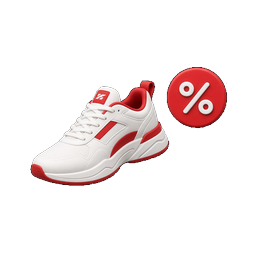
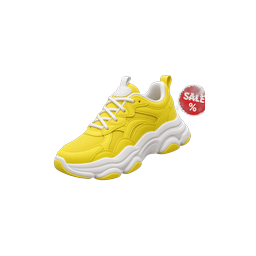
Well Sneakers: v3 chip stickers with cache bust
Replace collection chips with dehalo RGBA assets (~20% padding, true alpha) and point catalog.html img src at ?v=3. Keep 40px contain thumbs.

Changed region(s): [[0.0938, 0.25, 0.9062, 0.75]]

diff --git a/wellsneakers-shop/web/catalog.html b/wellsneakers-shop/web/catalog.html
@@ -65,25 +65,25 @@
           <div class="collection-chips" id="collectionRow" role="group" aria-label="Подборки">
             <button type="button" class="collection-chip" data-color="white" aria-pressed="false">
               <span class="collection-chip-thumb" aria-hidden="true">
-                <img src="assets/chips/chip-white-256.png" alt="" width="40" height="40" />
+                <img src="assets/chips/chip-white-256.png?v=3" alt="" width="40" height="40" />
               </span>
               <span class="collection-chip-label">Белые</span>
             </button>
             <button type="button" class="collection-chip" data-color="bright" aria-pressed="false">
               <span class="collection-chip-thumb" aria-hidden="true">
-                <img src="assets/chips/chip-bright-256.png" alt="" width="40" height="40" />
+                <img src="assets/chips/chip-bright-256.png?v=3" alt="" width="40" height="40" />
               </span>
               <span class="collection-chip-label">Яркие</span>
             </button>
             <button type="button" class="collection-chip" data-color="black" aria-pressed="false">
               <span class="collection-chip-thumb" aria-hidden="true">
-                <img src="assets/chips/chip-strict-256.png" alt="" width="40" height="40" />
+                <img src="assets/chips/chip-strict-256.png?v=3" alt="" width="40" height="40" />
               </span>
               <span class="collection-chip-label">Строгие</span>
             </button>
             <button type="button" class="collection-chip collection-chip-sale" id="saleChip" data-collection="sale" aria-pressed="false">
               <span class="collection-chip-thumb" aria-hidden="true">
-                <img src="assets/chips/chip-sale-256.png" alt="" width="40" height="40" />
+                <img src="assets/chips/chip-sale-256.png?v=3" alt="" width="40" height="40" />
               </span>
               <span class="collection-chip-label">Скидки</span>
             </button>

diff --git a/wellsneakers-shop/TZ.md b/wellsneakers-shop/TZ.md
@@ -151,7 +151,7 @@ MODEL NAME (жирный)
 - [x] Каталог сайта: импорт OC (~398) → на витрине все с наличием (~310; нулевые скрыты)
 - [~] Главная: плюшки **выше** `#him`/`#her`, индикатор **стрелка** (не плюс); без фейкового «белые −15%»; hero `assets/store.jpg` как есть (**960×1280**, ~296KB; attrs не 1734×1971; без full-bleed апскейла, полный кадр позже). Верхней строки чипов Ему/Ей/Скидки **нет** (ни sticky, ни под hero). Плитки `#him`/`#her` ниже плюшек остаются. Телефон витрины **+375 25 685-17-57** / `tel:+375256851757`. «Скидки» в hero → `catalog.html?sale=1`. Favicon прозрачный. **нужен pull `web/` на VPS**
 - [~] Каталог: чипы **Мужское / Женское** в одном стеке с подборками (сразу после Белые/Яркие/Строгие/Скидки, **выше** брендов и размеров); компактные pills `.street-opt`. Фильтры и шапка **не sticky** — при скролле каталога уезжают вверх. Док внизу компактный (~51px). При `scrollY` > ~240px док → 3 колонки `[Главная] [↑ Наверх] [Позвонить]` (smooth scroll наверх) + справа FAB ☰ над доком → `#filtersStack` / `#collectionRow`. У верха ↑ и ☰ скрыты. `?gender=men` / `women` (home tiles уже так ведут). API `GET /api/catalog?gender=` режет по `products.gender` (`men`/`women`/`unisex`/null). Infer только из явных токенов/категории OC, иначе null. Пусто → «Нет моделей». Кнопки «Как заказать» нет. **нужен redeploy API** + pull `web/`
-- [~] Каталог подборки: компактные чипы как плюшки `.perk` — 3D-стикеры `assets/chips/chip-*-256.png` (паддинг, прозрачные углы, полный кадр кроссовка; thumb **40×40**, `object-fit:contain`, `padding:3px`, `background:transparent`, без белой студийной пластины) + **Белые / Яркие / Строгие / Скидки**, **выше** брендов и размеров. Не большие фото-плитки. URL `?color=white` / `bright` / `black`, `?sale=1`. H3 «Каталог» без подписи/api-banner. API `GET /api/catalog?color=` + клиентский fallback (white / vivid RED-PINK-YELLOW-GREEN-BLUE-ORANGE… / black). Пусто → «Нет белых/ярких/строгих моделей» / «Сейчас скидок нет». Стикеры синхронизированы с VPS-хотфиксом; `?color=bright` на API — после redeploy
+- [~] Каталог подборки: компактные чипы как плюшки `.perk` — 3D-стикеры v3 `assets/chips/chip-*-256.png?v=3` (true alpha, ~20% паддинг, dehalo, полный кадр; thumb **40×40**, `object-fit:contain`, `padding:3px`, `background:transparent`, без белой студийной пластины) + **Белые / Яркие / Строгие / Скидки**, **выше** брендов и размеров. Не большие фото-плитки. URL `?color=white` / `bright` / `black`, `?sale=1`. H3 «Каталог» без подписи/api-banner. API `GET /api/catalog?color=` + клиентский fallback (white / vivid RED-PINK-YELLOW-GREEN-BLUE-ORANGE… / black). Пусто → «Нет белых/ярких/строгих моделей» / «Сейчас скидок нет». Стикеры v3 в git; `?color=bright` на API — после redeploy
 - [~] Скидки на витрине: `products.old_price_byn` (nullable); on sale = `old_price_byn > price_byn`; `GET /api/catalog?sale=1` → только уценённые, `total=0` → «Сейчас скидок нет». Staff create/patch + OC import мапят old/special. **нужен redeploy API**
 - [~] Одна карточка на модель, цвета как варианты (`color`+`model_key`, `GET /api/catalog` → `models[]`). Staff по артикулу не ломаем. **нужен redeploy VPS**
 - [~] Каталог: дефолтный порядок — больше размерных строк в наличии сверху (`stockSizeCount` = сумма size-rows с qty>0 по всем цветам; ничья — бренд/имя). `?sort=name` оставляет алфавит. Витрина не пересортировывает ответ API. **нужен redeploy API**
